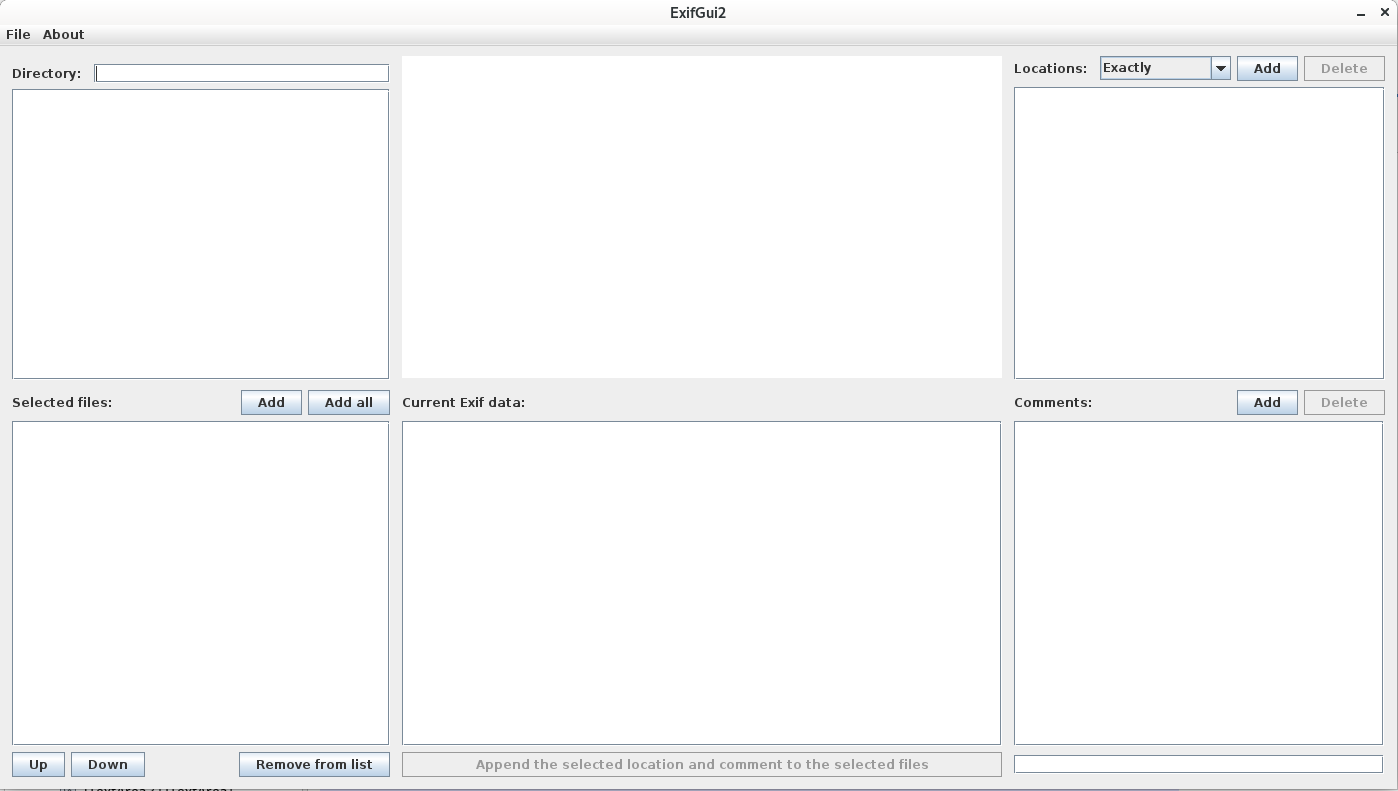
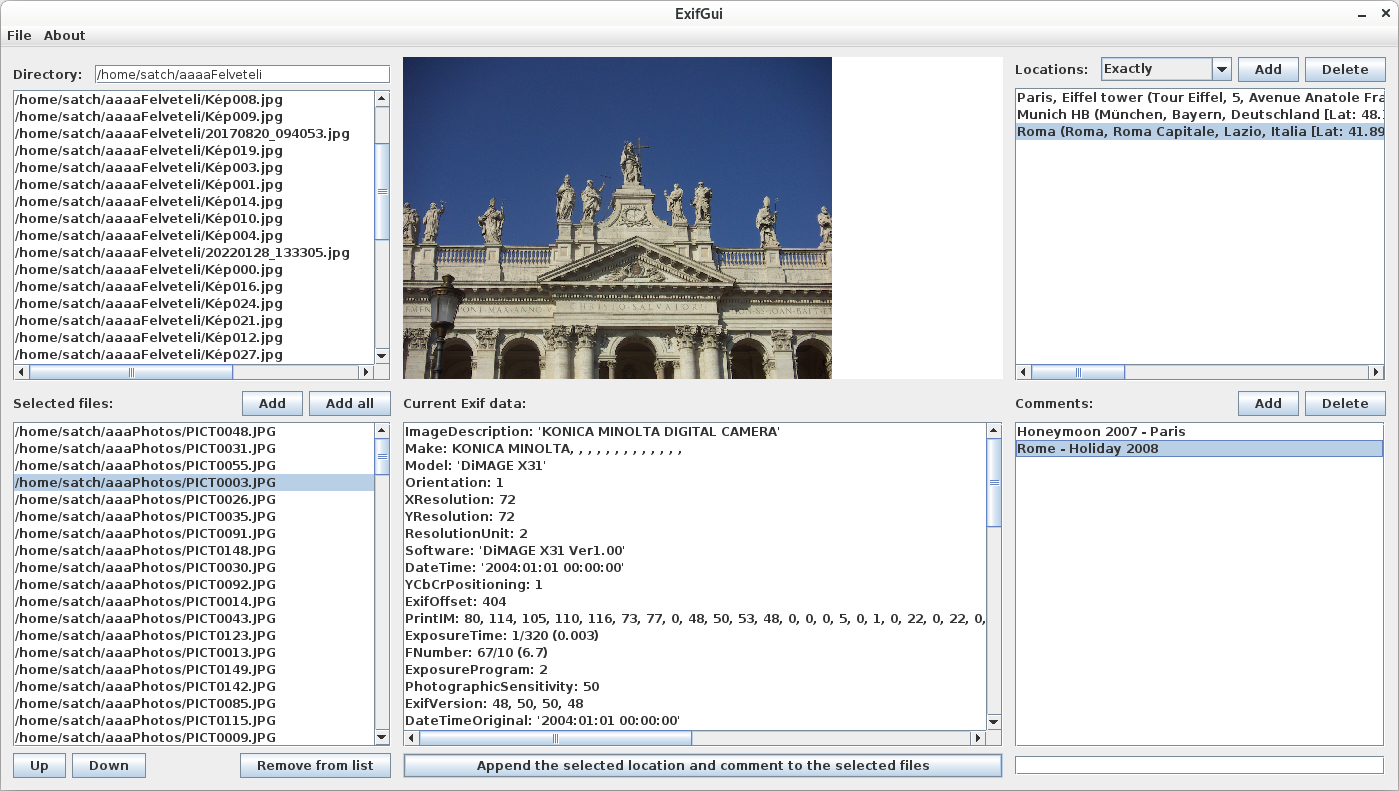
Images for doc

diff --git a/src/main/java/own/exifgui/ExifGui2.java b/src/main/java/own/exifgui/ExifGui2.java
@@ -140,7 +140,7 @@ public final class ExifGui2 extends javax.swing.JFrame {
         );
 
         setDefaultCloseOperation(javax.swing.WindowConstants.DO_NOTHING_ON_CLOSE);
-        setTitle("ExifGui2");
+        setTitle("ExifGui");
         setMaximumSize(null);
         setMinimumSize(null);
         setResizable(false);
